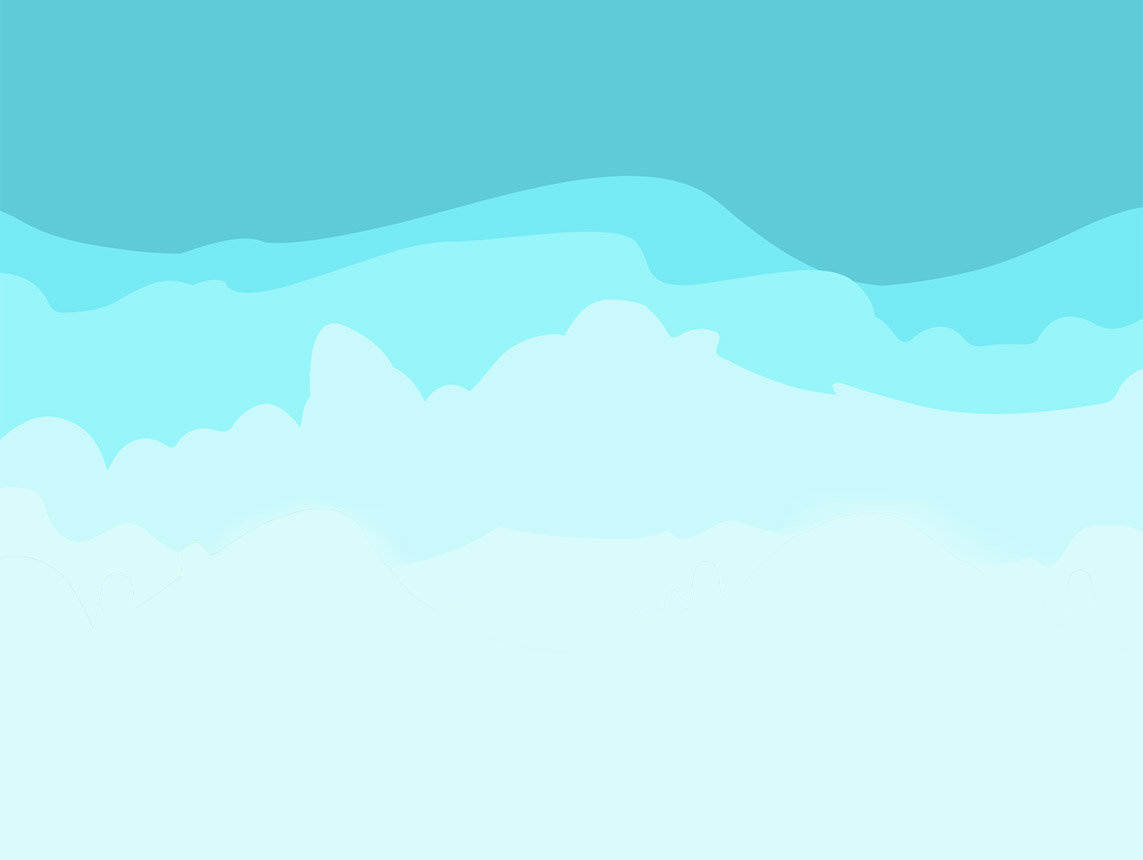
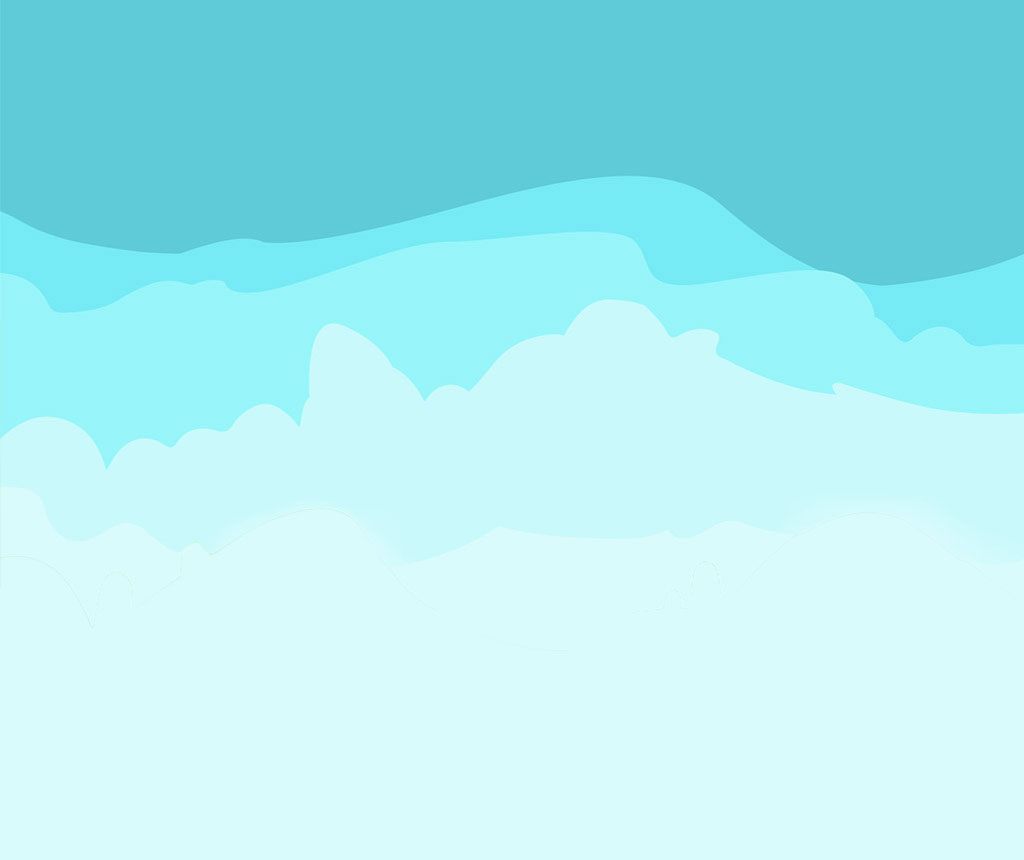
更细图片资源

diff --git a/cocos2d-js/stick/index.html b/cocos2d-js/stick/index.html
@@ -61,7 +61,7 @@
             width: 100%;
             height: 100%;
             position: absolute;
-            left: 0;
+            left: 28%;
             top: 0;
             z-index: 9999;
             color: #B0B0B0;
@@ -80,14 +80,17 @@
 
 <div id="initBg">
     <div  class="guide-wraper">
-        <img id="initBgLogo" width="140" height="140"/>
-        <p/>
-        <p/>
-        <img id="intiBgTitle" width="200" height="60"/>
+        <div id="loading" style="display: block">
[1 lines of base64/hex data omitted]
+        </div>
         <div id="lowAndr" style="display: none;">
+            <img id="initBgLogo" width="140" height="140"/>
             <p/>
             <p/>
-            <span>你的安卓版本偏低，建议升级到4.0以上版本再试</span>
+            <img id="intiBgTitle" width="200" height="60"/>
+            <p/>
+            <p/>
+            <span>您手机的安卓版本偏低，请升级到4.0以上版本再试：）</span>
         </div>
     </div>
 </div>
@@ -135,15 +138,19 @@
     var isLowAndroidVersion = checkIsLowAndroidVersion();
 
     (function initInitBg() {
-        var elm = document.getElementById("initBgLogo");
-        if (elm) {
-            elm.src = logoBase64;
-        }
-        elm = document.getElementById("intiBgTitle");
-        if (elm) {
-            elm.src = titleBase64;
-        }
         if (isLowAndroidVersion) {
+            var elm = document.getElementById("loading");
+            if (elm) {
+                elm.style.display = "none";
+            }
+            elm = document.getElementById("initBgLogo");
+            if (elm) {
+                elm.src = logoBase64;
+            }
+            elm = document.getElementById("intiBgTitle");
+            if (elm) {
+                elm.src = titleBase64;
+            }
             elm = document.getElementById("lowAndr");
             elm.style.display = "block";
         }

diff --git a/cocos2d-js/stick/src/dataMgr.js b/cocos2d-js/stick/src/dataMgr.js
@@ -51,8 +51,8 @@ var DataMgr = cc.Class.extend({
                                 console.log("hide ad");
                                 this.isShowAd = false;
                                 this._showAd(this.isShowAd);
-                                this.highScore = data.highScore;
                             }
+                            this.highScore = data.highScore;
                         }
                     } catch (e) {
                         console.error("parse login rst:", e);
